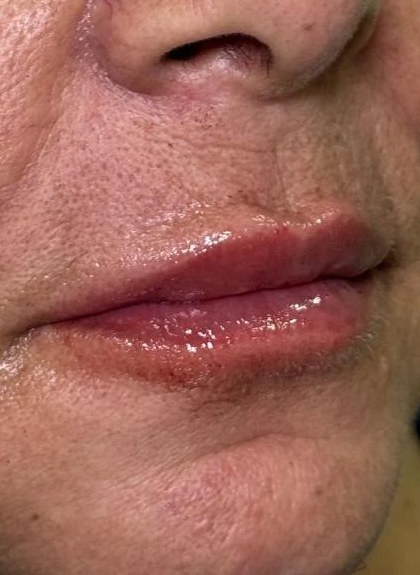
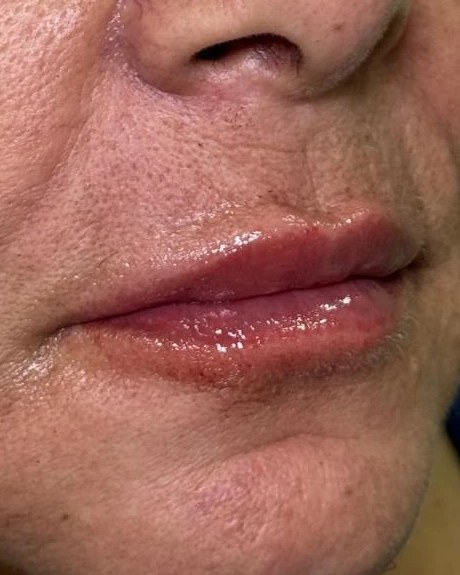
Remove consultation price card, show more of treatment photos
Claude-Session: https://claude.ai/code/session_01K8J8FPLsjsokYDq6GC2jk7

diff --git a/index.html b/index.html
@@ -109,15 +109,15 @@
   .tabs { display: flex; gap: 6px; background: var(--card); border: 1px solid var(--line); padding: 5px; border-radius: 999px; }
   .tabs button { border: 0; background: transparent; padding: 9px 20px; border-radius: 999px; cursor: pointer; font-size: .85rem; color: var(--muted); transition: all .25s; }
   .tabs button.active { background: var(--dark); color: #f1e8dc; }
-  .treat-grid { display: grid; grid-template-columns: repeat(5, 1fr); gap: 16px; margin: 48px 0 44px; }
-  .treat { position: relative; aspect-ratio: 3/4.3; border-radius: var(--radius); overflow: hidden; color: #fff; display: flex; flex-direction: column; justify-content: flex-end; padding: 18px; background: linear-gradient(170deg, #d9c2a0, #7d5d36); transition: transform .35s; }
+  .treat-grid { display: grid; grid-template-columns: repeat(3, 1fr); gap: 20px; margin: 48px 0 44px; }
+  .treat { position: relative; aspect-ratio: 4/5; max-width: 100%; border-radius: var(--radius); overflow: hidden; color: #fff; display: flex; flex-direction: column; justify-content: flex-end; padding: 26px; background: linear-gradient(170deg, #d9c2a0, #7d5d36); transition: transform .35s; }
   .treat:nth-child(3n+2) { background: linear-gradient(170deg, #cbb08c, #5f4529); }
   .treat:nth-child(3n) { background: linear-gradient(170deg, #e2cfb4, #94744a); }
   .treat:hover { transform: translateY(-6px); }
   .treat img { position: absolute; inset: 0; width: 100%; height: 100%; object-fit: cover; }
   .treat::before { content: ""; position: absolute; inset: 0; background: linear-gradient(to top, rgba(30, 22, 15, .85) 0%, rgba(30, 22, 15, .1) 60%); z-index: 1; }
   .treat > * { position: relative; z-index: 2; }
-  .treat > img { position: absolute; z-index: 0; height: 70%; object-position: 50% 30%; -webkit-mask-image: linear-gradient(to bottom, #000 50%, transparent 100%); mask-image: linear-gradient(to bottom, #000 50%, transparent 100%); }
+  .treat > img { position: absolute; z-index: 0; object-position: 50% 30%; }
   .treat .tag { position: absolute; top: 14px; left: 14px; font-size: .66rem; letter-spacing: .12em; text-transform: uppercase; background: rgba(255,255,255,.2); backdrop-filter: blur(6px); padding: 4px 10px; border-radius: 999px; }
   .treat h3 { font-size: 1.35rem; margin-bottom: 6px; }
   .treat p { font-size: .76rem; opacity: .85; line-height: 1.45; margin-bottom: 10px; }
@@ -145,18 +145,15 @@
   /* How it works */
   .how { background: var(--dark); color: #f1e8dc; position: relative; overflow: hidden; }
   .how .lead { color: rgba(241, 232, 220, .65); }
-  .how-grid { display: grid; grid-template-columns: 1.2fr .8fr; gap: 70px; align-items: center; }
+  .how-grid { display: grid; grid-template-columns: .85fr 1.15fr; gap: 70px; align-items: start; }
+  .how-cta { margin-top: 34px; }
+  .how-grid .timeline { margin-top: 6px; }
   .timeline { list-style: none; margin-top: 44px; position: relative; }
   .timeline::before { content: ""; position: absolute; left: 15px; top: 10px; bottom: 10px; width: 1px; background: linear-gradient(var(--gold), transparent); }
   .timeline li { display: grid; grid-template-columns: 32px 1fr; gap: 20px; padding-bottom: 26px; }
   .timeline .dot { width: 32px; height: 32px; border-radius: 50%; border: 1px solid var(--gold); background: var(--dark); display: grid; place-items: center; font-size: .78rem; color: var(--gold-light); position: relative; }
   .timeline h3 { font-family: "Jost", sans-serif; font-weight: 500; font-size: 1rem; margin-bottom: 4px; }
   .timeline p { font-size: .87rem; opacity: .6; }
-  .price-card { background: linear-gradient(160deg, var(--dark-2), #241d18); border: 1px solid rgba(226, 199, 153, .25); border-radius: 22px; padding: 38px 34px; box-shadow: 0 40px 70px -30px rgba(0,0,0,.6); }
-  .price-card small { font-size: .7rem; letter-spacing: .2em; text-transform: uppercase; color: var(--gold-light); }
-  .price-card .price { font-family: "Cormorant Garamond", serif; font-size: 4rem; line-height: 1; margin: 12px 0 14px; }
-  .price-card p { font-size: .88rem; opacity: .7; margin-bottom: 28px; }
-  .price-card .btn { width: 100%; }
 
   /* About */
   .about-grid { display: grid; grid-template-columns: .9fr 1.1fr; gap: 80px; align-items: center; }
@@ -260,7 +257,7 @@
 
   @media (max-width: 1024px) {
     .ba-track { grid-auto-columns: calc((100% - 24px) / 2); }
-    .treat-grid { grid-template-columns: repeat(3, 1fr); }
+    .treat-grid { grid-template-columns: repeat(2, 1fr); }
   }
   @media (max-width: 900px) {
     section { padding: 80px 0; }
@@ -282,7 +279,7 @@
     .ba-track { grid-auto-columns: 82%; gap: 14px; }
     .container { padding: 0 16px; }
     .why-grid, .plans { grid-template-columns: 1fr; }
-    .treat-grid { grid-template-columns: repeat(2, 1fr); gap: 12px; }
+    .treat-grid { grid-template-columns: 1fr; gap: 14px; }
     .checks { grid-template-columns: 1fr; }
     .seal { width: 92px; height: 92px; left: -6px; }
     .seal svg { width: 84px; height: 84px; }
@@ -510,6 +507,9 @@
       <div class="reveal">
         <h2 class="title">Como funciona<br>a sua <em>consulta</em></h2>
         <p class="lead">Um encontro sem pressa para entender você, seus objetivos e montar o plano ideal.</p>
+        <a href="#" data-wa class="btn btn-gold how-cta">Agendar minha consulta →</a>
+      </div>
+      <div class="reveal">
         <ol class="timeline">
           <li><span class="dot">1</span><div><h3>Você conta o que incomoda</h3><p>Ouvimos suas queixas, expectativas e histórico.</p></div></li>
           <li><span class="dot">2</span><div><h3>Análise do conjunto</h3><p>Análise facial completa: estrutura, pele e proporções.</p></div></li>
@@ -517,12 +517,6 @@
           <li><span class="dot">4</span><div><h3>Plano por etapas</h3><p>Proposta clara de tratamentos, prazos e investimento.</p></div></li>
           <li><span class="dot">5</span><div><h3>Acompanhamento</h3><p>Retorno agendado para avaliar a evolução e ajustar se necessário.</p></div></li>
         </ol>
-      </div>
-      <div class="price-card reveal">
-        <small>Investimento na consulta</small>
-        <div class="price">R$ 150</div>
-        <p>Valor 100% abatido caso você realize um procedimento no mesmo dia ou dentro de 30 dias após a consulta.</p>
-        <a href="#" data-wa class="btn btn-gold">Quero agendar minha consulta →</a>
       </div>
     </div>
   </section>
